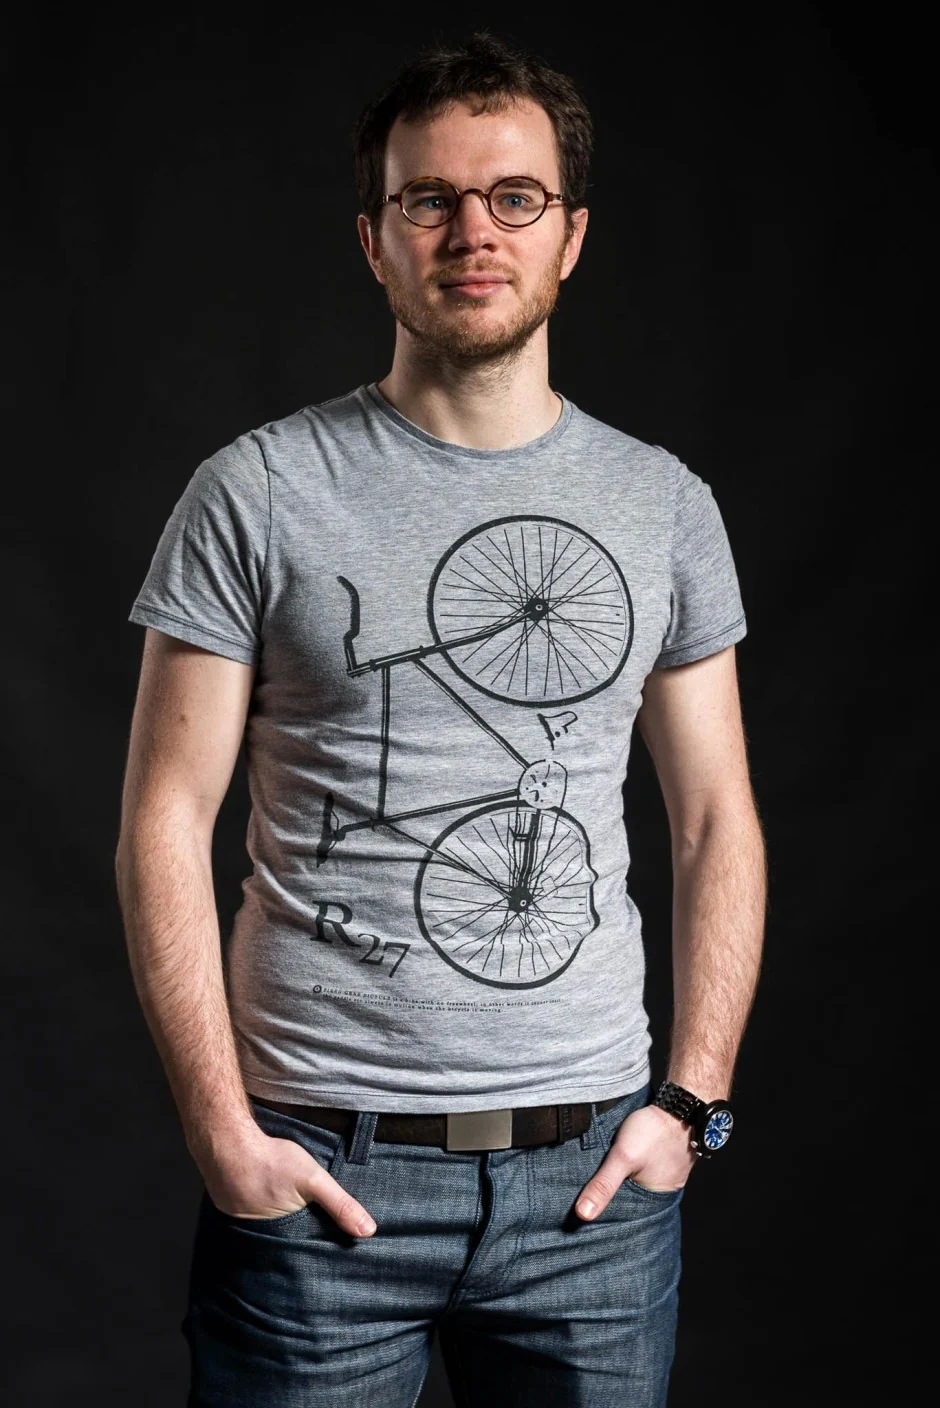
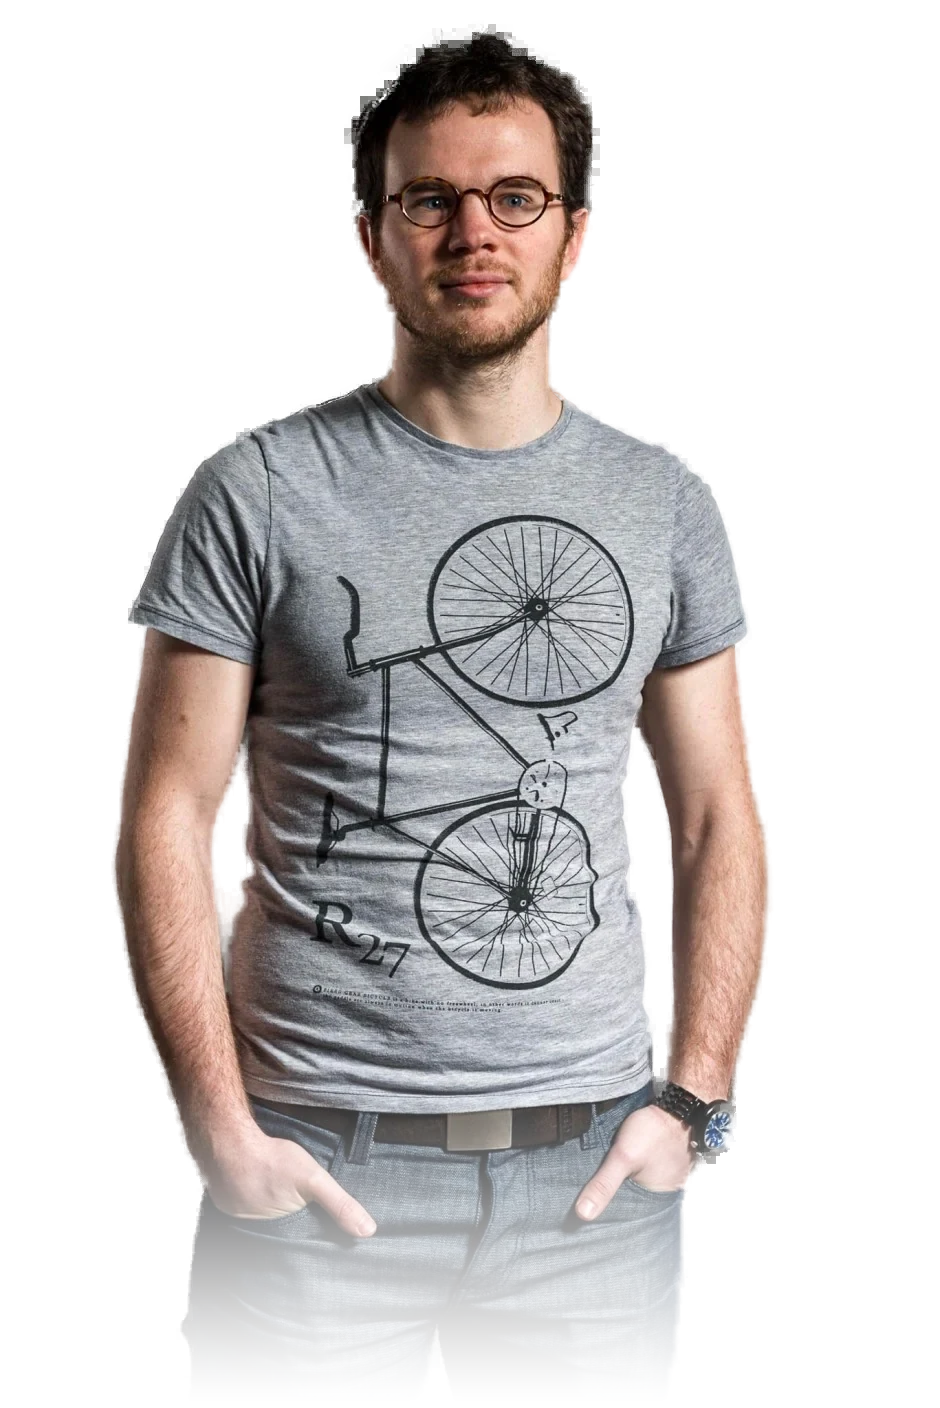
Hero : portrait détouré posé tel quel sur le fond
Nouvelle public/images/portrait.webp (fond transparent, fondu du bas
intégré). Retrait de mix-blend-mode: lighten, du filtre saturate/contrast
et des trois dégradés de masque (haut, bas, côtés). object-fit: contain
calé en bas pour que l'image ne soit plus rognée et garde son propre
fondu. La photo ne touche pas le texte (vérifié en 1024, 1440 et 390 px),
donc aucun fondu gauche. Aucune photo n'est enregistrée dans les
réglages : c'est bien ce fichier qui s'affiche.

diff --git a/src/index.css b/src/index.css
@@ -116,38 +116,14 @@
       linear-gradient(180deg, hsl(219 30% 19%) 0%, hsl(219 24% 13%) 34%, hsl(var(--background)) 78%);
   }
 }
-/* Portrait du Hero fondu dans le fond : le noir de la photo prend la
-   couleur du fond (lighten) et le masque efface les quatre bords. */
+
+/* Portrait du Hero détouré (fond transparent, fondu du bas intégré à
+   l'image) : posé tel quel sur le fond, sans masque ni filtre. contain
+   garde l'image entière pour que son fondu du bas ne soit pas rogné. */
 @layer components {
   .hero-portrait {
-    object-fit: cover;
-    object-position: center top;
-    mix-blend-mode: lighten;
-    filter: saturate(0.9) contrast(1.05);
-    -webkit-mask-composite: source-in;
-    mask-composite: intersect;
-  }
-
-  .hero-portrait--desktop {
-    -webkit-mask-image:
-      linear-gradient(to top, transparent 0%, #000 32%),
-      linear-gradient(to right, transparent 0%, #000 18%, #000 85%, transparent 100%),
-      linear-gradient(to bottom, transparent 0%, #000 8%);
-    mask-image:
-      linear-gradient(to top, transparent 0%, #000 32%),
-      linear-gradient(to right, transparent 0%, #000 18%, #000 85%, transparent 100%),
-      linear-gradient(to bottom, transparent 0%, #000 8%);
-  }
-
-  .hero-portrait--mobile {
-    -webkit-mask-image:
-      linear-gradient(to top, transparent 0%, #000 40%),
-      linear-gradient(to right, transparent 0%, #000 18%, #000 82%, transparent 100%),
-      linear-gradient(to bottom, transparent 0%, #000 8%);
-    mask-image:
-      linear-gradient(to top, transparent 0%, #000 40%),
-      linear-gradient(to right, transparent 0%, #000 18%, #000 82%, transparent 100%),
-      linear-gradient(to bottom, transparent 0%, #000 8%);
+    object-fit: contain;
+    object-position: center bottom;
   }
 }
 

diff --git a/src/components/portfolio/Hero.jsx b/src/components/portfolio/Hero.jsx
@@ -8,8 +8,6 @@ const FALLBACK_PORTRAIT = '/images/portrait.webp';
 export default function Hero({ profile = defaultProfile, experiences }) {
   const [firstName, ...rest] = profile.name.split(' ');
   const portrait = profile.photoUrl || profile.photo_url || FALLBACK_PORTRAIT;
-  // Le portrait reste hors des Reveal et de la colonne texte : mix-blend-mode
-  // ne se mélange qu'avec le fond du même contexte d'empilement.
   const portraitProps = {
     src: portrait,
     alt: profile.name,
